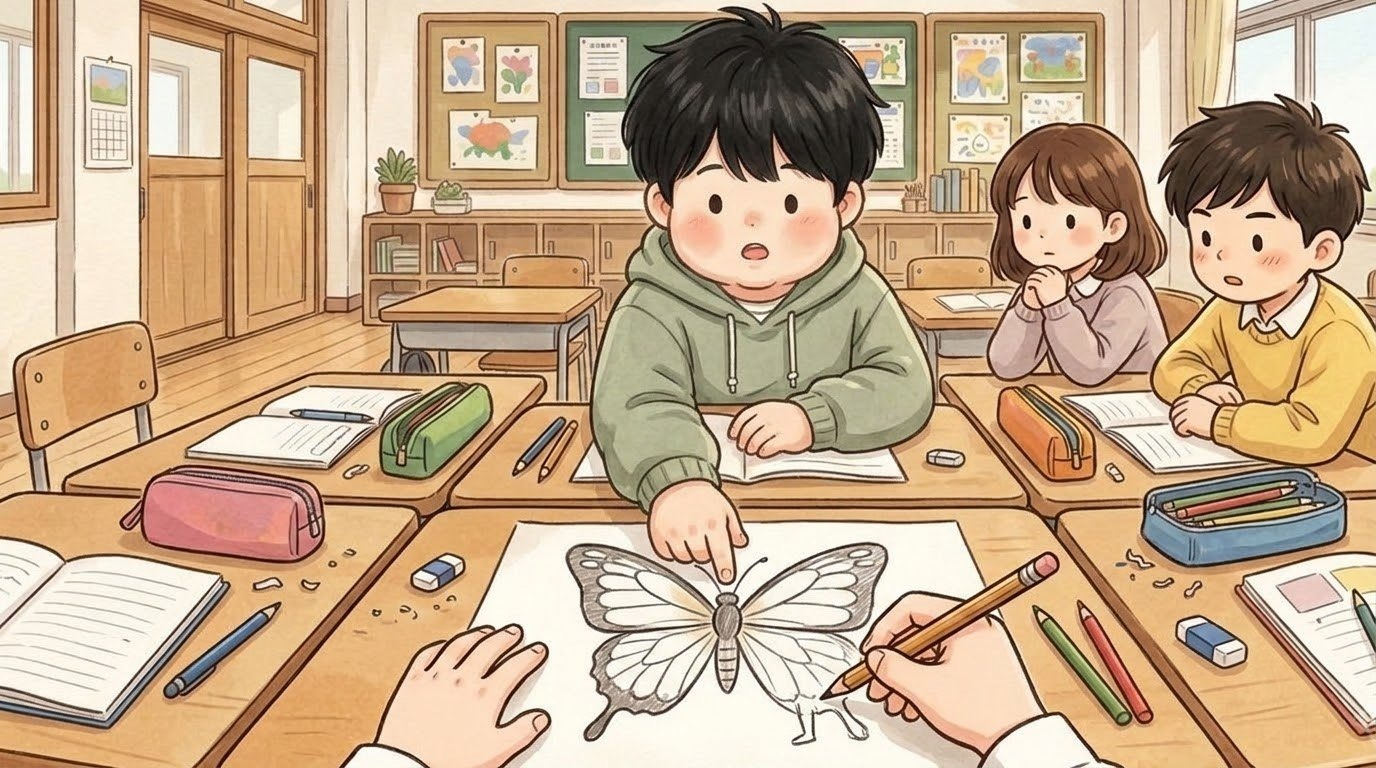
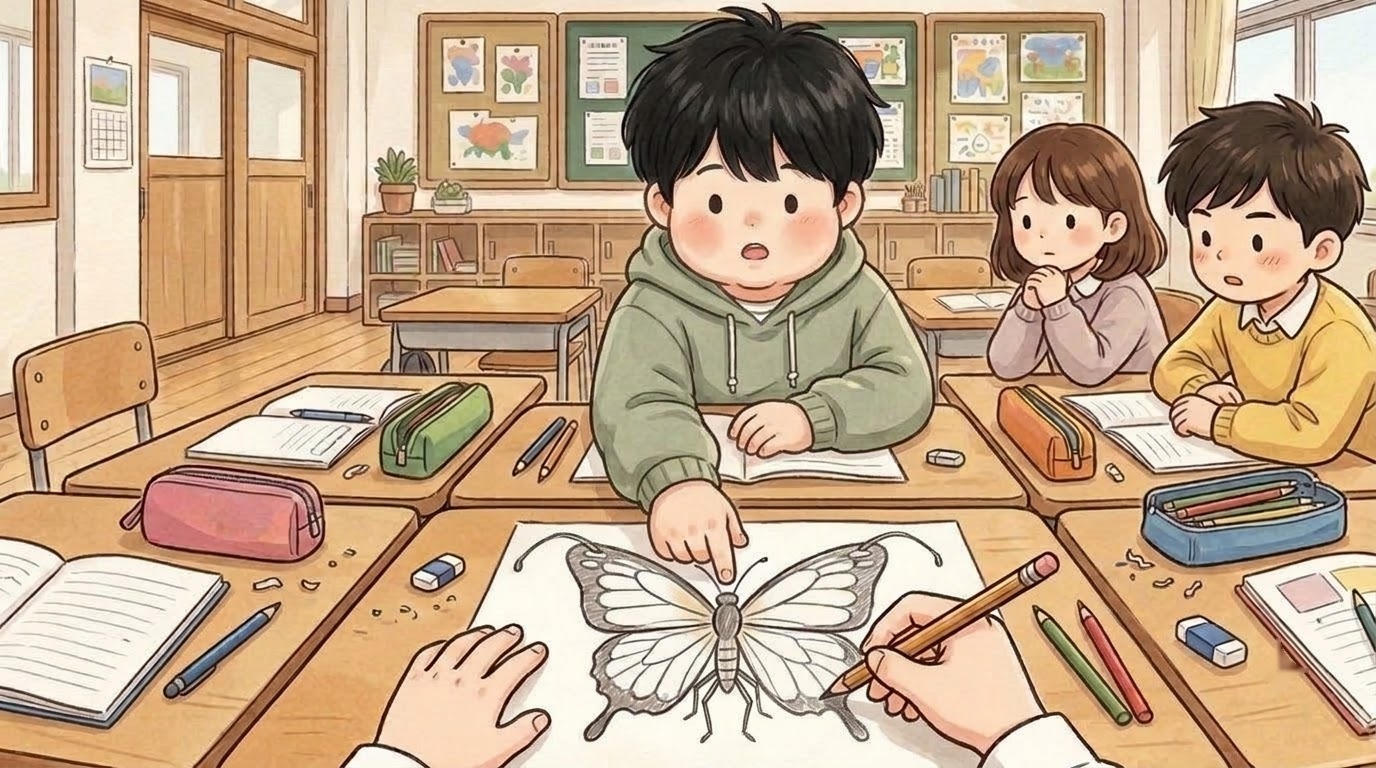
시우 2일차 나비 그림(siwoo_02c): 날개에 붙은 사람 다리 지우고 곤충 다리 4개·날개 끝 더듬이(대사대로 틀린 그림)

diff --git a/index.html b/index.html
@@ -119,14 +119,14 @@ body,button{word-break:keep-all;overflow-wrap:break-word}
 <div id="fader"></div>
 <script>
 // same address, newest version: if the page this phone has kept is older than the one online, fetch the new one and reopen
-const BUILD='1109120018';
+const BUILD='1109120255';
 try{fetch(location.pathname,{cache:'no-store'}).then(r=>r.text()).then(t=>{const m=t.match(/const BUILD='(\d+)'/);if(m&&m[1]!==BUILD&&sessionStorage.getItem('upd')!==m[1]){sessionStorage.setItem('upd',m[1]);fetch(location.pathname,{cache:'reload'}).then(()=>location.reload())}}).catch(()=>{})}catch(e){}
 </script>
-<script src="i18n.js?v=1109120018"></script>
-<script src="i18n_prologue_v2.js?v=1109120018"></script>
-<script src="day2/i18n_engine.js?v=1109120018"></script>
-<script src="day2/data.js?v=1109120018"></script>
-<script src="day3/data.js?v=1109120018"></script>
+<script src="i18n.js?v=1109120255"></script>
+<script src="i18n_prologue_v2.js?v=1109120255"></script>
+<script src="day2/i18n_engine.js?v=1109120255"></script>
+<script src="day2/data.js?v=1109120255"></script>
+<script src="day3/data.js?v=1109120255"></script>
 <script>
 // ---------- data ----------
 const MW=1672,MH=941,KID=180;
@@ -569,36 +569,36 @@ function pickHero(){const m=document.getElementById('modal'),c=document.getEleme
  c.innerHTML=`<h2>${tr('전학생 반장되기')}</h2><p>${tr('한국말이 아직 서툰 전학생,<br>반장 선거에 나가다.')}</p><p style="margin-top:14px">${tr('누구로 할까요?')}</p>${(()=>{const s=loadSave();return s&&s.day>=2&&s.mode===UI+'-'+LANG?`<p><button class="big" id="cont">${tr('{n}일차부터 이어 하기').replace('{n}',s.day)}</button></p>`:''})()}<div class="pick heroes"><button data-h="hero_f"><img src="faces/hero_f_smile.jpg" alt="여자 주인공">${heroName(1)}</button><button data-h="hero_m"><img src="faces/hero_m_smile.jpg" alt="남자 주인공">${heroName(0)}</button></div>`;
  m.classList.add('on');{const cb=document.getElementById('cont');if(cb)cb.onclick=()=>{const s=loadSave();HERO=s.hero;Object.assign(HEART,s.heart||{});(s.found||[]).forEach(k=>FOUND.add(k));HEART_D1={...HEART};chime();(typeof contGame==='function'?contGame(s):startDay(Math.min(s.day,Object.keys(window.D3||{}).length?3:2)))}}c.querySelectorAll('.pick button').forEach(b=>b.onclick=()=>{HERO=b.dataset.h;m.classList.remove('on');chime();bgm('day');load('home_am');say([['nar','','이사 온 다음 날 아침. 아직 풀지 못한 상자들이 쌓여 있다.'],['think','sad','(오늘부터 새 학교야. 여기 말도 아직 서툰데…….)'],['think','smile','({m}한테 인사하고 학교 가야지.)']],morning)})}
 </script>
-<script src="day2/engine.js?v=1109120018"></script>
-<script src="day2/ep_minho.js?v=1109120018"></script>
-<script src="day2/meet.js?v=1109120018"></script>
-<script src="day2/ep_sua.js?v=1109120018"></script>
-<script src="day2/ep_hangyeol.js?v=1109120018"></script>
-<script src="day2/ep_siwoo.js?v=1109120018"></script>
-<script src="day2/ep_haram.js?v=1109120018"></script>
-<script src="day2/ep_jiho.js?v=1109120018"></script>
-<script src="day2/ep_hyeeun.js?v=1109120018"></script>
-<script src="day2/ep_haneul.js?v=1109120018"></script>
-<script src="day2/ep_junho.js?v=1109120018"></script>
-<script src="day2/ep_yuna.js?v=1109120018"></script>
-<script src="day2/ep_yena.js?v=1109120018"></script>
-<script src="day2/ep_haeun.js?v=1109120018"></script>
-<script src="day2/ep_youngmin.js?v=1109120018"></script>
-<script src="day2/ep_seah.js?v=1109120018"></script>
-<script src="day2/ep_jihoon.js?v=1109120018"></script>
-<script src="words_ja_ru.js?v=1109120018"></script>
-<script src="day2/mybag.js?v=1109120018"></script>
-<script src="day2/wordpics.js?v=1109120018"></script>
-<script src="day2/spots.js?v=1109120018"></script>
-<script src="day2/textfit.js?v=1109120018"></script>
-<script src="day2/tester.js?v=1109120018"></script>
-<script src="day2/ux.js?v=1109120018"></script>
-<script src="day2/tapword.js?v=1109120018"></script>
-<script src="day2/review.js?v=1109120018"></script>
-<script src="day2/plane.js?v=1109120018"></script>
-<script src="day2/bubble.js?v=1109120018"></script>
-<script src="day2/ep_ending.js?v=1109120018"></script>
-<script src="day2/ending.js?v=1109120018"></script>
+<script src="day2/engine.js?v=1109120255"></script>
+<script src="day2/ep_minho.js?v=1109120255"></script>
+<script src="day2/meet.js?v=1109120255"></script>
+<script src="day2/ep_sua.js?v=1109120255"></script>
+<script src="day2/ep_hangyeol.js?v=1109120255"></script>
+<script src="day2/ep_siwoo.js?v=1109120255"></script>
+<script src="day2/ep_haram.js?v=1109120255"></script>
+<script src="day2/ep_jiho.js?v=1109120255"></script>
+<script src="day2/ep_hyeeun.js?v=1109120255"></script>
+<script src="day2/ep_haneul.js?v=1109120255"></script>
+<script src="day2/ep_junho.js?v=1109120255"></script>
+<script src="day2/ep_yuna.js?v=1109120255"></script>
+<script src="day2/ep_yena.js?v=1109120255"></script>
+<script src="day2/ep_haeun.js?v=1109120255"></script>
+<script src="day2/ep_youngmin.js?v=1109120255"></script>
+<script src="day2/ep_seah.js?v=1109120255"></script>
+<script src="day2/ep_jihoon.js?v=1109120255"></script>
+<script src="words_ja_ru.js?v=1109120255"></script>
+<script src="day2/mybag.js?v=1109120255"></script>
+<script src="day2/wordpics.js?v=1109120255"></script>
+<script src="day2/spots.js?v=1109120255"></script>
+<script src="day2/textfit.js?v=1109120255"></script>
+<script src="day2/tester.js?v=1109120255"></script>
+<script src="day2/ux.js?v=1109120255"></script>
+<script src="day2/tapword.js?v=1109120255"></script>
+<script src="day2/review.js?v=1109120255"></script>
+<script src="day2/plane.js?v=1109120255"></script>
+<script src="day2/bubble.js?v=1109120255"></script>
+<script src="day2/ep_ending.js?v=1109120255"></script>
+<script src="day2/ending.js?v=1109120255"></script>
 <script>
 // the goal shows big for a few seconds, then folds into a small pill (tap it to open it again)
 {const g=document.getElementById('goal');let t=null;const big=()=>{g.classList.remove('mini');clearTimeout(t);t=setTimeout(()=>g.classList.add('mini'),4000)};
